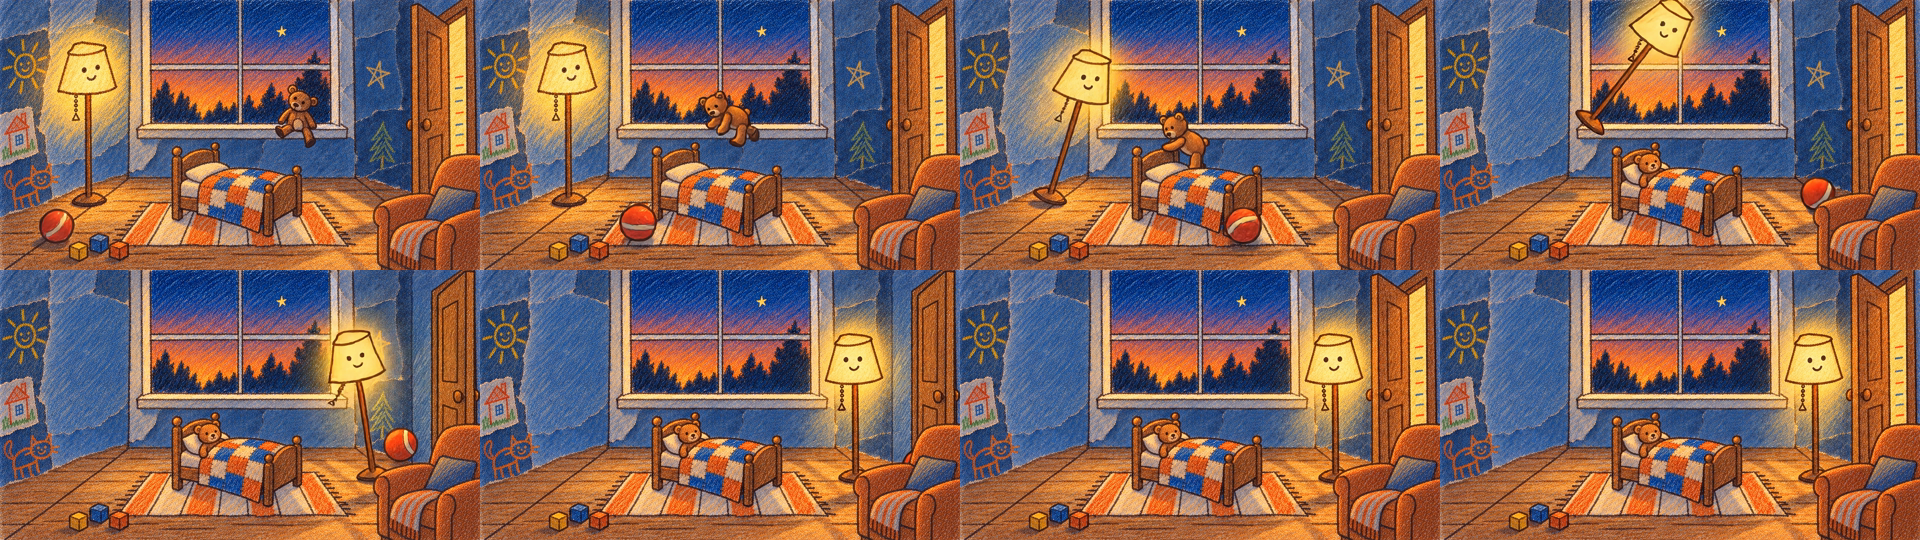
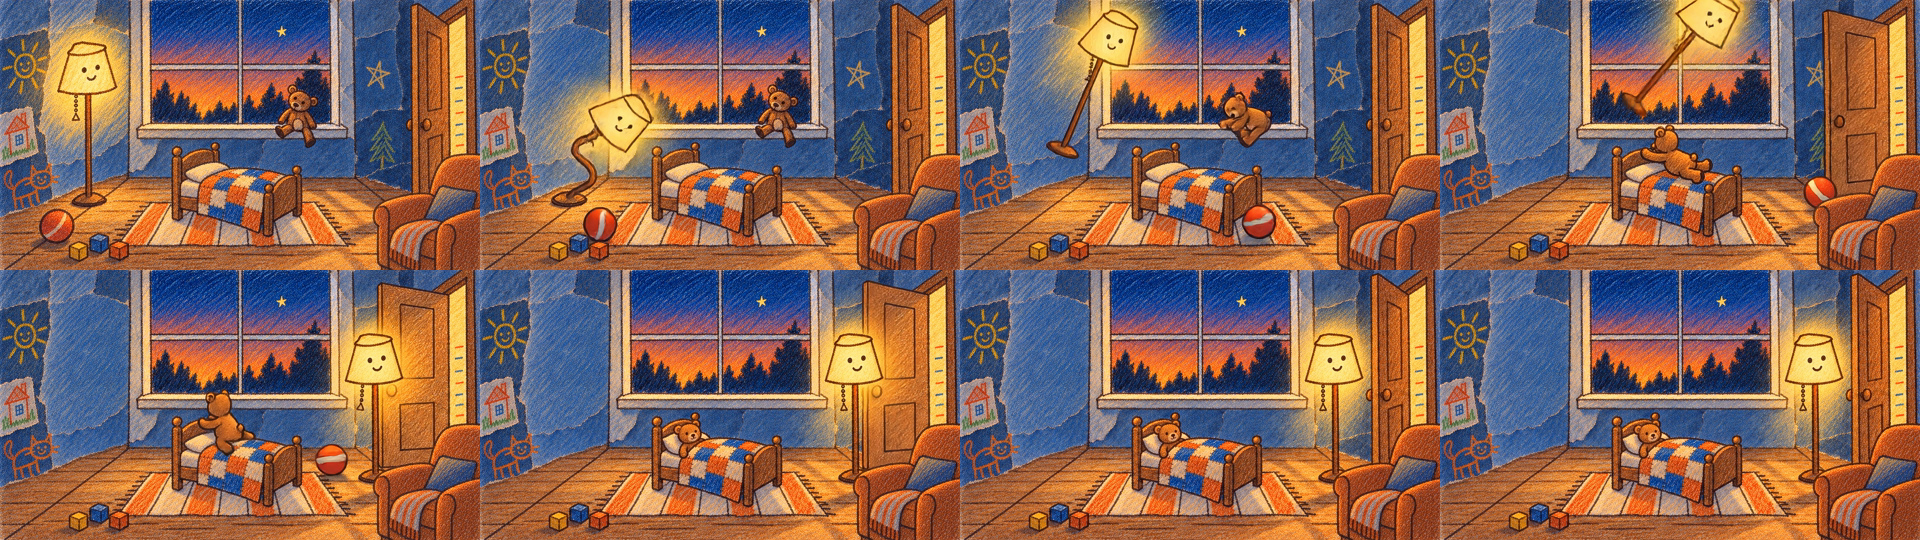
Film v4: continuity pass, 57 s silent

diff --git a/docs/log.md b/docs/log.md
@@ -268,3 +268,10 @@ Newest entries at the bottom. Times are CET on Nov 5, 2026. Each entry says what
 
 ### 22:05 · Joining script and interim film v4
 - `scripts/make_film.py OUT.mp4` joins the scene clips with 0.5 s dissolves (the two ending clips joined hard) and falls back to the v3 clip for any missing v4 clip. Interim `exports/film_v4_silent.mp4` (57.0 s) built with stages 1, 3, 4, 5, 6 new and stage 2 and the ending from v3. Stages 1, 3, 4, 6 v4 clips are in; stage 2 v4 and the ending v4 were still running.
+
+### 22:07 · Film v4 (continuity pass) assembled: exports/film_v4_silent.mp4, 57.0 s, silent
+- All six v4 clips came back and passed my frame check: stage 1 (bear climbs down, straight to the crib, peeks in; no sparkles), stage 2 (soft bed entry, ball rolls out and is gone), stage 3 (plain-dot lamp, soft blue tears generated directly), stage 4 (the departing figure visible from the first frame), stage 6 (old bear gets up from the armchair and walks to the window), ending (the old bear settles, the goodnight reach toward the lamp, falls asleep, lamp out). Stage 5 unchanged. One armchair (right front corner) in every stage except 4.
+- Joined with 0.5 s dissolves by `scripts/make_film.py` (ending clips joined hard): 1920x1080, 24 fps, 57.0 s, no audio.
+- Known flaws: lamp pole bends or tilts in stages 2, 3, 4; the door swings wider than planned in stage 3 and stage 2; the bear looks a little bigger when it stretches toward the lamp.
+- Balance $N of 610,000 (counter lags). Web copy (30 MB) prepared; the team runs the deploy command to update the link.
+- Still open: audio track (the kit needs one; the team paused sound), the team name for the file, the final MP4 export.
